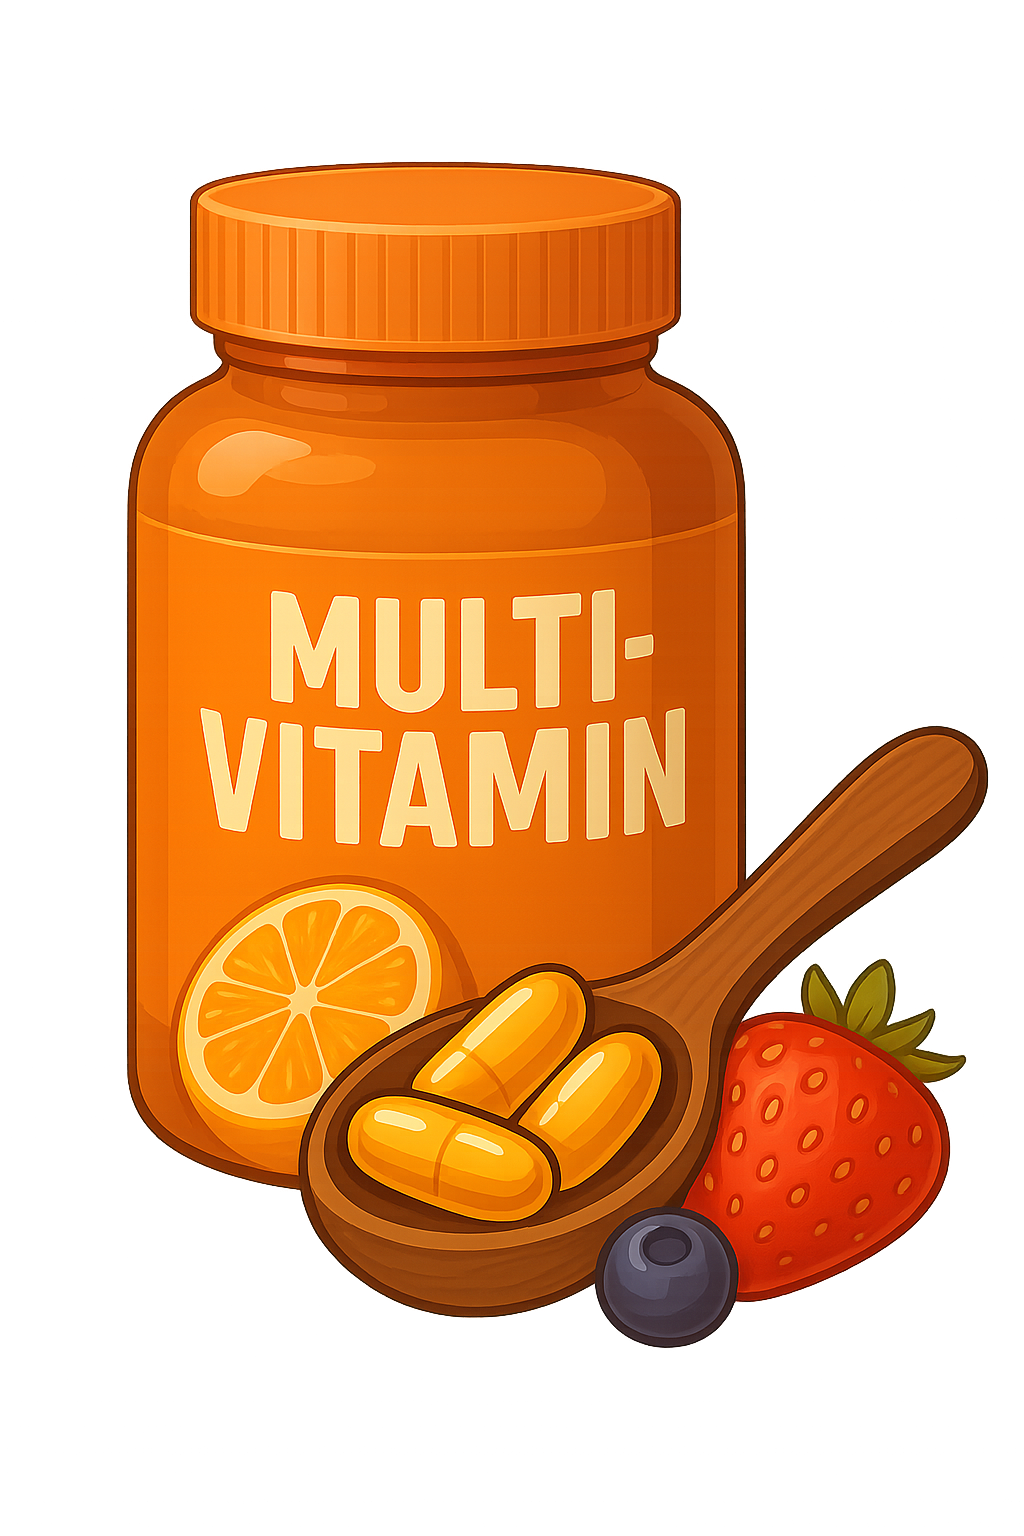
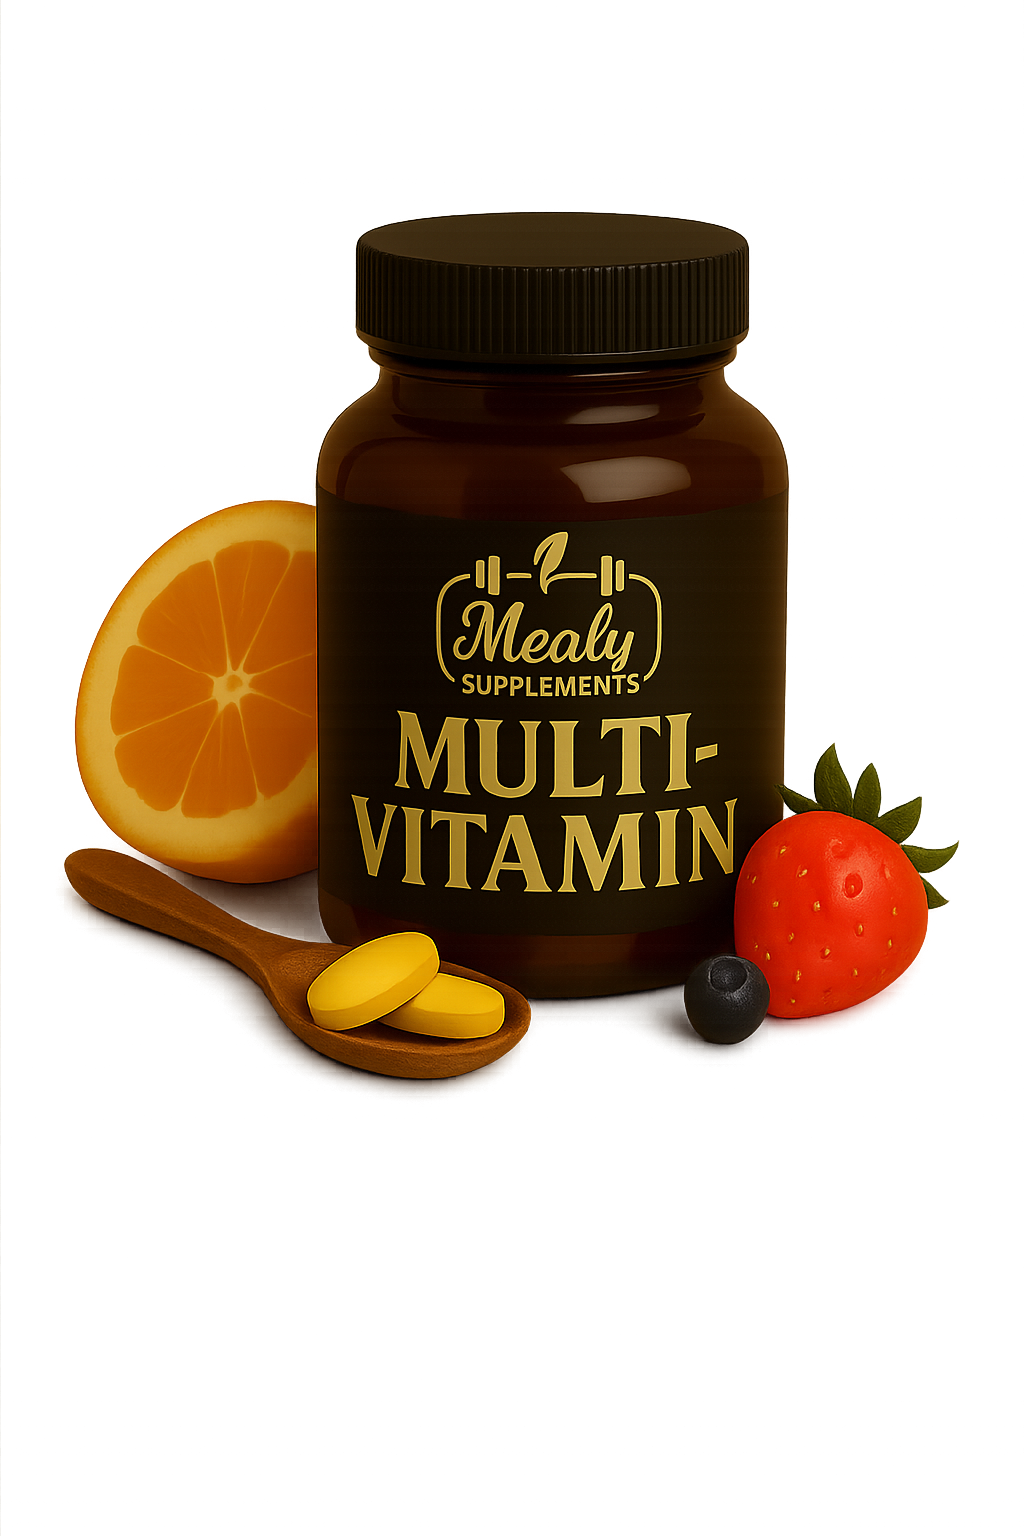
Bilder geändert und alte Bilder gelöscht

diff --git a/Index/Nebenseiten/vitalstoffe.php b/Index/Nebenseiten/vitalstoffe.php
@@ -62,7 +62,7 @@ $products = $stmt->fetchAll();
           <!-- für jedes Produkt NUR eine product-card -->
           <div class="product-card">
             <div class="product-image-wrapper">
-              <img src="../Bilder/multivitamin2.png<?= $img ?>" alt="<?= $name ?>">
+              <img src="../Bilder/<?= $img ?>" alt="<?= $name ?>">
             </div>
             <h2><?= $name ?></h2>
             <p><?= $price ?>€</p>
